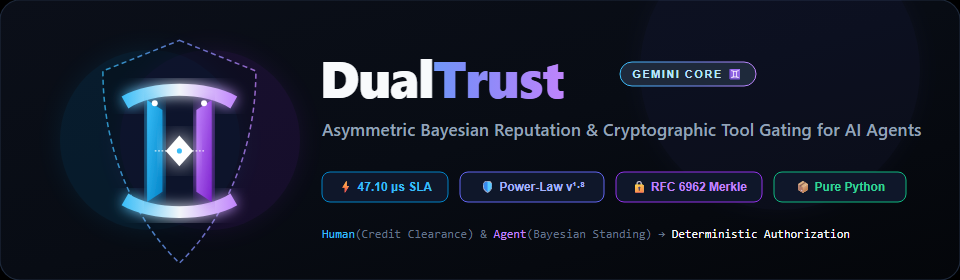
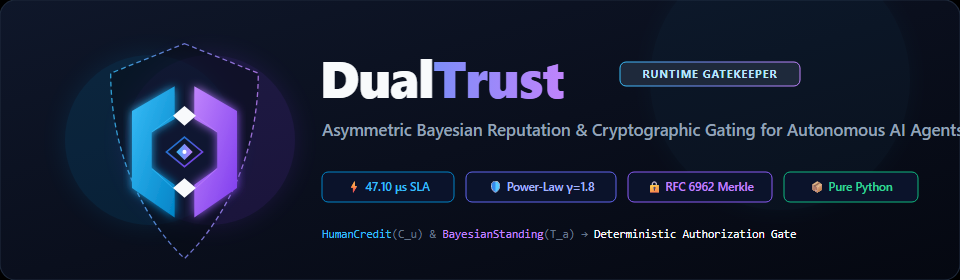
style(branding): replace zodiac emblem with formal DualTrust cryptographic vault shield and bump to v0.4.3

diff --git a/src/dualtrust/__init__.py b/src/dualtrust/__init__.py
@@ -57,7 +57,7 @@ from dualtrust.storage import MemoryStorage, SQLiteStorage, StorageBackend
 from dualtrust.watchdog import AgentWatchdog
 
 
-__version__ = "0.4.2"
+__version__ = "0.4.3"
 __all__ = [
     # Core Engine & Cryptographic Ledger
     "DualTrust",

diff --git a/README.md b/README.md
@@ -1,12 +1,12 @@
 <p align="center">
   <a href="https://github.com/codesbykhairannoor/dual-trust">
-    <img src="https://raw.githubusercontent.com/codesbykhairannoor/dual-trust/main/assets/banner.png" alt="DualTrust - Gemini Duality Governance Engine" width="100%">
+    <img src="https://raw.githubusercontent.com/codesbykhairannoor/dual-trust/main/assets/banner.png" alt="DualTrust: Asymmetric Bayesian Reputation and Cryptographic Gating for Autonomous AI Agents" width="100%">
   </a>
 </p>
 
 # DualTrust
 
-[![PyPI Version](https://img.shields.io/badge/pypi-v0.4.2-blue.svg)](https://pypi.org/project/dualtrust/)
+[![PyPI Version](https://img.shields.io/badge/pypi-v0.4.3-blue.svg)](https://pypi.org/project/dualtrust/)
 [![Python Version](https://img.shields.io/badge/python-3.10%20%7C%203.11%20%7C%203.12%20%7C%203.13-brightgreen.svg)](https://pypi.org)
 [![License: MIT](https://img.shields.io/badge/License-MIT-yellow.svg)](https://opensource.org/licenses/MIT)
 [![Sponsor](https://img.shields.io/badge/Sponsor-%E2%9D%A4%20Tako.id-ff69b4.svg)](https://tako.id/codesbykhai)
